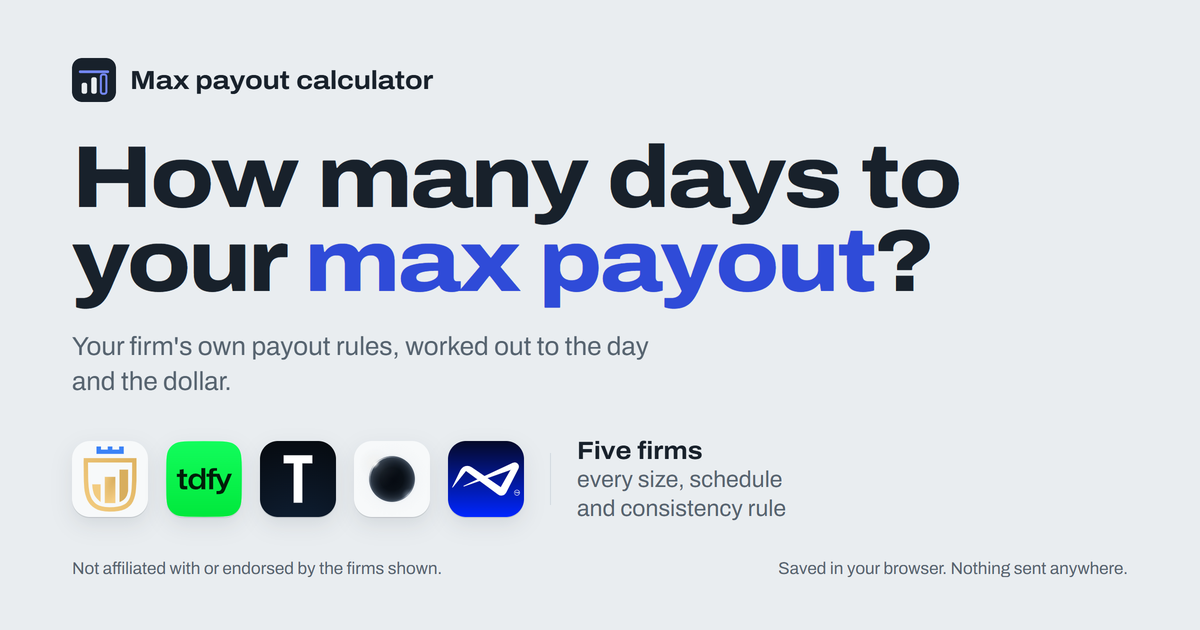
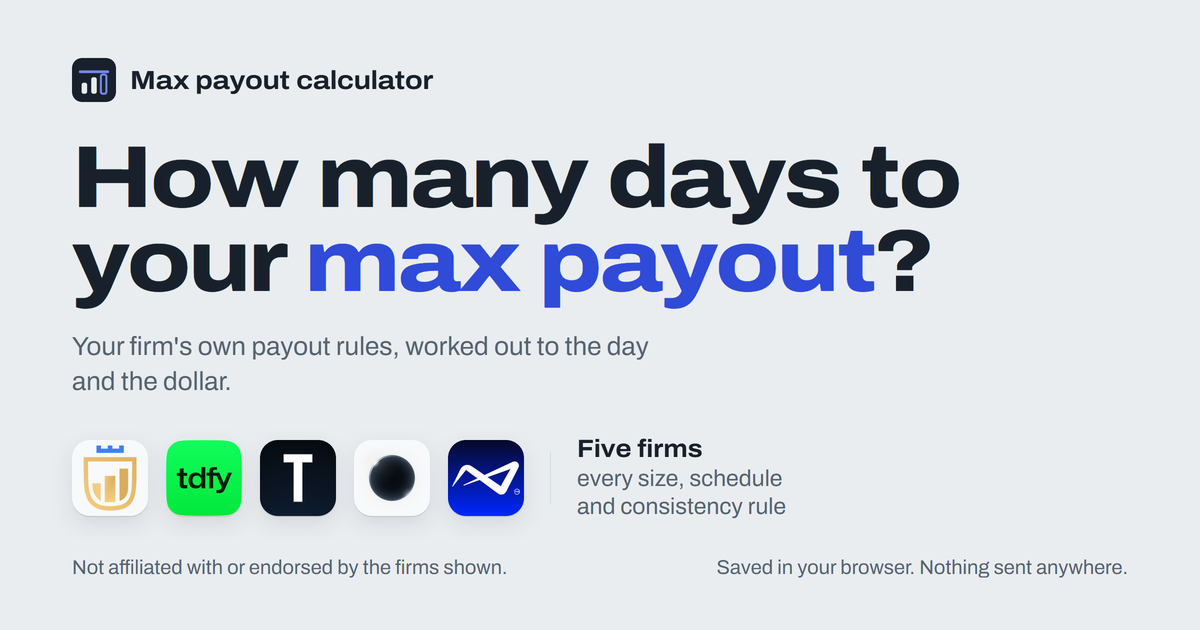
Nudge the preview card's footer type up to 20px so the not-affiliated line still reads in a chat thumbnail.

diff --git a/tools/og-card/og.html b/tools/og-card/og.html
@@ -112,7 +112,7 @@
       }
 
       footer {
-        font-size: 17px;
+        font-size: 20px;
         color: var(--slate);
         display: flex;
         justify-content: space-between;
